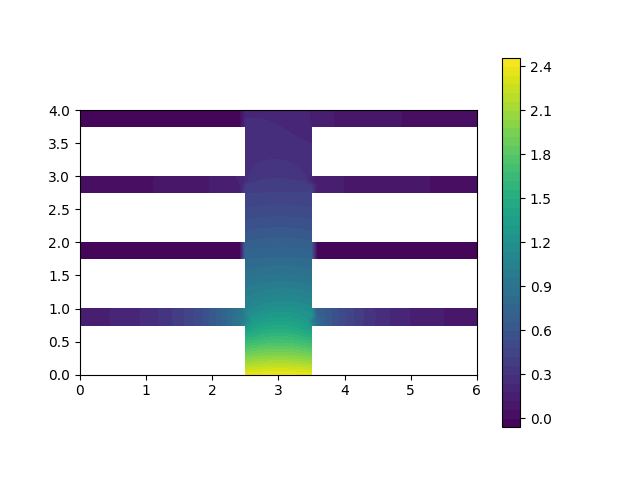
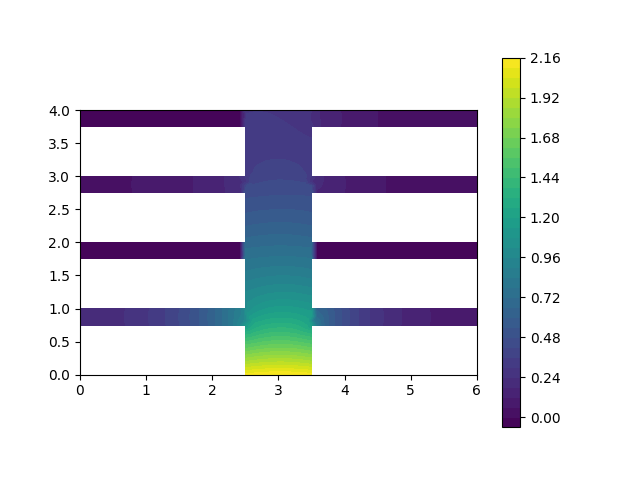
Working FOM and ROM with averaging with PyMC NUTS setup. TODO - port to parallel solver due to speed issues

diff --git a/applications/thermal_fin/pymc_func_bayes_inverse.py b/applications/thermal_fin/pymc_func_bayes_inverse.py
@@ -2,6 +2,7 @@ import pymc3 as pm
 import numpy as np
 import dolfin as dl; dl.set_log_level(40)
 from forward_solve import Fin, get_space
+from averaged_affine_ROM import AffineROMFin 
 from dl_model import load_parametric_model_avg
 from tensorflow.keras.optimizers import Adam, RMSprop, Adadelta
 from theano.compile.ops import as_op
@@ -12,21 +13,22 @@ import time
 import matplotlib.pyplot as plt
 
 class SqError:
-    def __init__(self):
-        self._resolution = 40
-        self._V = get_space(self._resolution)
+    def __init__(self, V, chol):
+        self._V = V
         self._solver = Fin(self._V)
+        self._solver_r = AffineROMFin(self._V)
         self._pred_k = dl.Function(self._V)
         self.phi = np.loadtxt('data/basis_five_param.txt',delimiter=",")
-        chol = make_cov_chol(self._V)
         self.k_true = dl.Function(self._V)
         norm = np.random.randn(len(chol))
         nodal_vals = np.exp(0.5 * chol.T @ norm)
         self.k_true.vector().set_local(nodal_vals)
         w, y, A, B, C = self._solver.forward(self.k_true)
         self.obs_data = self._solver.qoi_operator(w)
+        self._solver_r.set_reduced_basis(self.phi)
+        self._solver_r.set_data(self.obs_data)
 
-    def full_err_grad(self, pred_k):
+    def err_grad_FOM(self, pred_k):
         self._pred_k.vector().set_local(pred_k)
         w, y, a, b, c = self._solver.forward(self._pred_k)
         qoi = self._solver.qoi_operator(w)
@@ -34,25 +36,25 @@ class SqError:
         grad = self._solver.gradient(self._pred_k, self.obs_data)
         return err, grad
 
-    def reduced_err_grad(self, pred_k):
+    def err_grad_ROM(self, pred_k):
         self._pred_k.vector().set_local(pred_k)
-        w_r, g = self._solver.averaged_reduced_fwd_and_grad(self._pred_k, 
-                self.phi, 
-                self.obs_data)
-        err = np.square(self._solver.reduced_qoi_operator(w_r) - self.obs_data).sum()/2.0
-        return err, g
+        w_r = self._solver_r.forward_reduced(self._pred_k)
+        qoi_r = self._solver_r.qoi_reduced(w_r)
+        err_r = np.square(qoi_r - self.obs_data).sum()/2.0
+        grad_r = self._solver_r.grad_reduced(self._pred_k)
+        return err_r, grad_r
 
 class SqErrorOpROM(theano.Op):
     itypes = [tt.dvector]
     otypes = [tt.dscalar, tt.dvector]
     __props__ = ()
 
-    def __init__(self):
-        self._error_op = SqError()
+    def __init__(self, V, chol):
+        self._error_op = SqError(V, chol)
 
     def perform(self, node, inputs, outputs):
         pred_k = inputs[0]
-        value, grad = self._error_op.reduced_err_grad(pred_k)
+        value, grad = self._error_op.err_grad_ROM(pred_k)
         outputs[0][0] = value
         outputs[1][0] = grad
 
@@ -65,13 +67,12 @@ class SqErrorOpFOM(theano.Op):
     otypes = [tt.dscalar, tt.dvector]
     __props__ = ()
 
-    def __init__(self):
-        self._error_op = SqError()
+    def __init__(self, V, chol):
+        self._error_op = SqError(V, chol)
 
     def perform(self, node, inputs, outputs):
         pred_k = inputs[0]
-        value = np.array(self._error_op.full_error(pred_k))
-        grad = self._error_op.full_grad(pred_k)
+        value, grad = self._error_op.err_grad_FOM(pred_k)
         outputs[0][0] = value
         outputs[1][0] = grad
 
@@ -79,31 +80,14 @@ class SqErrorOpFOM(theano.Op):
         val, grad = self(*inputs)
         return [output_gradients[0] * grad] 
 
-sq_err = SqErrorOpROM()
-
 resolution = 40
 V = get_space(resolution)
-chol = make_cov_chol(V)
-solver = Fin(V)
-z_true = dl.Function(V)
+chol = make_cov_chol(V, length=1.2)
+sq_err = SqErrorOpFOM(V, chol)
+sq_err_r = SqErrorOpROM(V, chol)
+
 norm = np.random.randn(len(chol))
 nodal_vals_start = np.exp(0.5 * chol.T @ norm)
-#  z_true.vector().set_local(nodal_vals)
-#  w, y, A, B, C = solver.forward(z_true)
-#  obs_data = solver.qoi_operator(w)
-#  model = load_parametric_model_avg('relu', Adam, 0.0024, 5, 50, 130, 400, V.dim())
-#  phi = np.loadtxt('data/basis_five_param.txt',delimiter=",")
-#  z = dl.Function(V)
-
-#  @as_op(itypes=[tt.dvector], otypes=[tt.dvector])
-#  def fwd_model(nodal_vals):
-    #  #  nodal_vals = np.exp(0.5 * chol.T @ norm)
-    #  z.vector().set_local(nodal_vals)
-    #  A_r, B_r, C_r, x_r, y_r = solver.averaged_forward(z, phi)
-    #  qoi_r = solver.reduced_qoi_operator(x_r)
-    #  qoi_e_NN = model.predict(np.array([nodal_vals]))
-    #  qoi_tilde = qoi_r + qoi_e_NN
-    #  return qoi_tilde.reshape((5,))
 
 Wdofs_x = V.tabulate_dof_coordinates().reshape((-1, 2))
 V0_dofs = V.dofmap().dofs()
@@ -113,8 +97,8 @@ sigma = 1e-3
 with pm.Model() as misfit_model:
 
     # Prior 
-    ls = 0.3
-    cov = pm.gp.cov.Matern32(2, ls=ls)
+    ls = 1.2
+    cov = pm.gp.cov.Matern52(2, ls=ls)
     nodal_vals = pm.gp.Latent(cov_func=cov).prior('nodal_vals', X=points)
 
     #  noise_var = 1e-4
@@ -124,13 +108,15 @@ with pm.Model() as misfit_model:
     #  step_method = pm.step_methods.metropolis.Metropolis()
     #  trace = pm.sample(1000,step=step_method, cores=1)
 
-    y = pm.Potential('y', -0.5 * sq_err(nodal_vals)[0] / sigma / sigma)
-    trace = pm.sample(200, cores=1)
+    y = pm.Potential('y', -0.5 * sq_err_r(nodal_vals)[0] / sigma / sigma)
+    trace = pm.sample(200, cores=1, tune=200)
 
 pm.traceplot(trace)
 k_inv = dl.Function(V)
 k_inv.vector().set_local(np.mean(trace['nodal_vals'],0))
 dl.plot(k_inv)
 plt.show()
-dl.plot(sq_err._error_op.k_true)
+dl.plot(sq_err_r._error_op.k_true)
 plt.show()
+
+import pdb; pdb.set_trace()

diff --git a/applications/thermal_fin/averaged_affine_ROM.py b/applications/thermal_fin/averaged_affine_ROM.py
@@ -3,6 +3,7 @@ import numpy as np
 from mshr import Rectangle, generate_mesh
 from forward_solve import get_space
 import matplotlib.pyplot as plt
+import time
 
 class SubFin(SubDomain):
     def __init__(self, subfin_bdry, **kwargs):
@@ -158,6 +159,11 @@ class AffineROMFin:
         self.data = None
         self.B_obs = self.observation_operator()
 
+        self.dA_dsigmak = []
+        for i in range(len(self.averaged_k_s)):
+            self.dA_dsigmak.append(
+                    assemble(inner(grad(self.w), grad(self.v))  * self.dx(i+1)).array())
+
     def forward(self, k):
         '''
         Computes the forward solution given a conductivity field
@@ -194,6 +200,8 @@ class AffineROMFin:
             w : numpy array     - reduced solution
         '''
 
+        t_i = time.time()
+
         k_s = self.subfin_avg_op(k)
 
         for i in range(len(k_s)):
@@ -207,6 +215,9 @@ class AffineROMFin:
         
         w_r = np.linalg.solve(A_r, B_r)
 
+        t_f = time.time()
+        print("Reduced forward time taken: {}\n".format(t_f - t_i))
+
         return w_r
 
     def qoi(self, w):
@@ -218,7 +229,6 @@ class AffineROMFin:
         return self.subfin_avg_op(w)
 
     def grad(self, k):
-
         k_s = self.subfin_avg_op(k)
         for i in range(len(k_s)):
             self.averaged_k_s[i].assign(k_s[i])
@@ -227,16 +237,31 @@ class AffineROMFin:
         solve(self._F == self._a, z) 
         pred_obs = self.qoi(z)
 
+        v = Function(self.V)
         adj_RHS = -np.dot(self.B_obs.T, pred_obs - self.data)
         assemble(self._adj_F, tensor=self.A_adj)
         v_nodal_vals = np.linalg.solve(self.A_adj.array(), adj_RHS)
-
-        v = Function(self.V)
         v.vector().set_local(v_nodal_vals)
 
         dL_dsigmak = np.zeros(len(self.averaged_k_s))
         for i in range(len(dL_dsigmak)):
             dL_dsigmak[i] = assemble(inner(grad(z), grad(v)) * self.dx(i+1))
+
+        return np.dot(self.B_obs.T, dL_dsigmak)
+
+    def grad_reduced(self, k):
+        w_r = self.forward_reduced(k)
+
+        reduced_fwd_obs = np.dot(self.B_obs, np.dot(self.phi, w_r))
+
+        reduced_adj_rhs = - np.dot(np.dot(self.B_obs, self.phi).T, reduced_fwd_obs - self.data)
+
+        psi = np.dot(self.A.array(), self.phi) 
+        v_r = np.linalg.solve(np.dot(psi.T, psi), reduced_adj_rhs)
+
+        dL_dsigmak = np.zeros(len(self.averaged_k_s))
+        for i in range(len(self.averaged_k_s)):
+            dL_dsigmak[i] = np.dot(v_r.T, np.dot(np.dot(np.dot(psi.T, self.dA_dsigmak[i]), self.phi), w_r))
 
         return np.dot(self.B_obs.T, dL_dsigmak)
 
@@ -263,15 +288,9 @@ class AffineROMFin:
         fin7_avg = assemble(k * self.dx(7))/self.fin7_A 
         fin8_avg = assemble(k * self.dx(8))/self.fin8_A 
         fin9_avg = assemble(k * self.dx(9))/self.fin9_A 
-
-        #  import pdb; pdb.set_trace()
-
         subfin_avgs = np.array([fin1_avg, fin2_avg, fin3_avg, fin4_avg, fin5_avg, 
             fin6_avg, fin7_avg, fin8_avg, fin9_avg])
-
-
-        print("Subfin averages: {}".format(subfin_avgs))
-
+        #  print("Subfin averages: {}".format(subfin_avgs))
         return subfin_avgs
 
     def observation_operator(self):
@@ -296,5 +315,7 @@ class AffineROMFin:
             fin7_avg[:],
             fin8_avg[:],
             fin9_avg[:]))
+
+        np.savetxt('B_obs.txt', B, delimiter=",")
 
         return B

diff --git a/applications/thermal_fin/forward_solve.py b/applications/thermal_fin/forward_solve.py
@@ -352,21 +352,7 @@ class Fin:
         '''
         Same as five_param_to_function but does not assume symmetry.
         '''
-        #  k5, k1, k2, k3, k4, k6, k7, k8, k9 = k_s
         return interpolate(SubfinValExpr(k_s, degree=1), self.V)
-        
-        #  k = interpolate(Expression("k_5 * ((x[0] >= 2.5) && (x[0] <= 3.5)) \
-           #  + k_1 * (((x[1] >=0.75) && (x[1] <= 1.0)) && (x[0] < 2.5)) \
-           #  + k_2 * (((x[1] >=1.75) && (x[1] <= 2.0)) && (x[0] < 2.5)) \
-           #  + k_3 * (((x[1] >=2.75) && (x[1] <= 3.0)) && (x[0] < 2.5)) \
-           #  + k_4 * (((x[1] >=3.75) && (x[1] <= 4.0)) && (x[0] < 2.5)) \
-           #  + k_6 * (((x[1] >=3.75) && (x[1] <= 4.0)) && (x[0] > 3.5)) \
-           #  + k_7 * (((x[1] >=2.75) && (x[1] <= 3.0)) && (x[0] > 3.5)) \
-           #  + k_8 * (((x[1] >=1.75) && (x[1] <= 2.0)) && (x[0] > 3.5)) \
-           #  + k_9 * (((x[1] >=0.75) && (x[1] <= 1.0)) && (x[0] > 3.5))", \
-                  #  degree=1, k_1=k1, k_2=k2, k_3=k3, k_4=k4, k_5=k5, 
-                  #  k_6=k6, k_7=k7, k_8=k8, k_9=k9), self.V)
-        #  return k
 
     def full_grad_to_five_param(self):
         dz_dk_T = np.zeros((5,self.dofs))
@@ -380,18 +366,7 @@ class Fin:
         return dz_dk_T
 
     def observation_operator(self):
-        z = TestFunction(self.V)
-        middle_avg = assemble(self.middle * z * self.dx)
-        fin1_avg = assemble(self.fin1 * z * self.dx)/0.25 #0.25 is the area of the subfin
-        fin2_avg = assemble(self.fin2 * z * self.dx)/0.25 
-        fin3_avg = assemble(self.fin3 * z * self.dx)/0.25 
-        fin4_avg = assemble(self.fin4 * z * self.dx)/0.25 
-
-        B = np.vstack((middle_avg[:],
-            fin1_avg[:],
-            fin2_avg[:],
-            fin3_avg[:],
-            fin4_avg[:]))
+        B = np.loadtxt("B_obs.txt", delimiter=",")
 
         return B
 

diff --git a/applications/thermal_fin/test_averaged_affine_ROM.py b/applications/thermal_fin/test_averaged_affine_ROM.py
@@ -62,7 +62,6 @@ w = solverROM.forward(k_true)
 data = solverROM.qoi(w)
 solverROM.set_data(data)
 
-
 grad = solverROM.grad(k_pt)
 
 qoi_0 = solverROM.qoi(w_A)
@@ -92,10 +91,48 @@ for i in range(n_eps):
     # Error b/w finite diff approx to gradient at given eps and adj
     err_grad[i] = abs( (Pi_plus - Pi_0)/eps[i] - dir_grad )
 
-plt.figure()    
 plt.loglog(eps, err_grad, "-ob", label="Error Grad")
 plt.loglog(eps, (.5*err_grad[0]/eps[0])*eps, "-.k", label="First Order")
 plt.title("Finite difference check of the first variation FOM")
+plt.xlabel("eps")
+plt.ylabel("Error grad")
+plt.legend(loc = "upper left")
+plt.show()
+
+grad_r = solverROM.grad_reduced(k_pt)
+
+w_R = solverROM.forward_reduced(k)
+qoi_0 = solverROM.qoi_reduced(w_R)
+Pi_0 = np.square(qoi_0 - data).sum()/2
+
+# Number of successive finite difference epsilons
+n_eps = 15
+eps = 1e-2*np.power(2., -np.arange(n_eps))
+err_grad = np.zeros(n_eps)
+
+k = dl.Function(V)
+
+# Compute FOM adjoint method based gradient
+k_hat = dl.Function(V).vector()
+k_hat.set_local(np.random.randn(V.dim()))
+k_hat.apply("")
+dir_grad = np.dot(grad_r, k_hat[:])
+
+for i in range(n_eps):
+    k.assign(k_pt)
+    k.vector().axpy(eps[i], k_hat) #uh = uh + eps[i]*dir
+
+    w_R = solverROM.forward_reduced(k)
+    qoi_plus = solverROM.qoi_reduced(w_R)
+    Pi_plus = np.square(qoi_plus - data).sum()/2
+
+    # Error b/w finite diff approx to gradient at given eps and adj
+    fd_grad = (Pi_plus - Pi_0)/eps[i]
+    err_grad[i] = abs(fd_grad - dir_grad)
+
+plt.loglog(eps, err_grad, "-ob", label="Error Grad")
+plt.loglog(eps, (.5*err_grad[0]/eps[0])*eps, "-.k", label="First Order")
+plt.title("Finite difference check of the first variation ROM")
 plt.xlabel("eps")
 plt.ylabel("Error grad")
 plt.legend(loc = "upper left")
